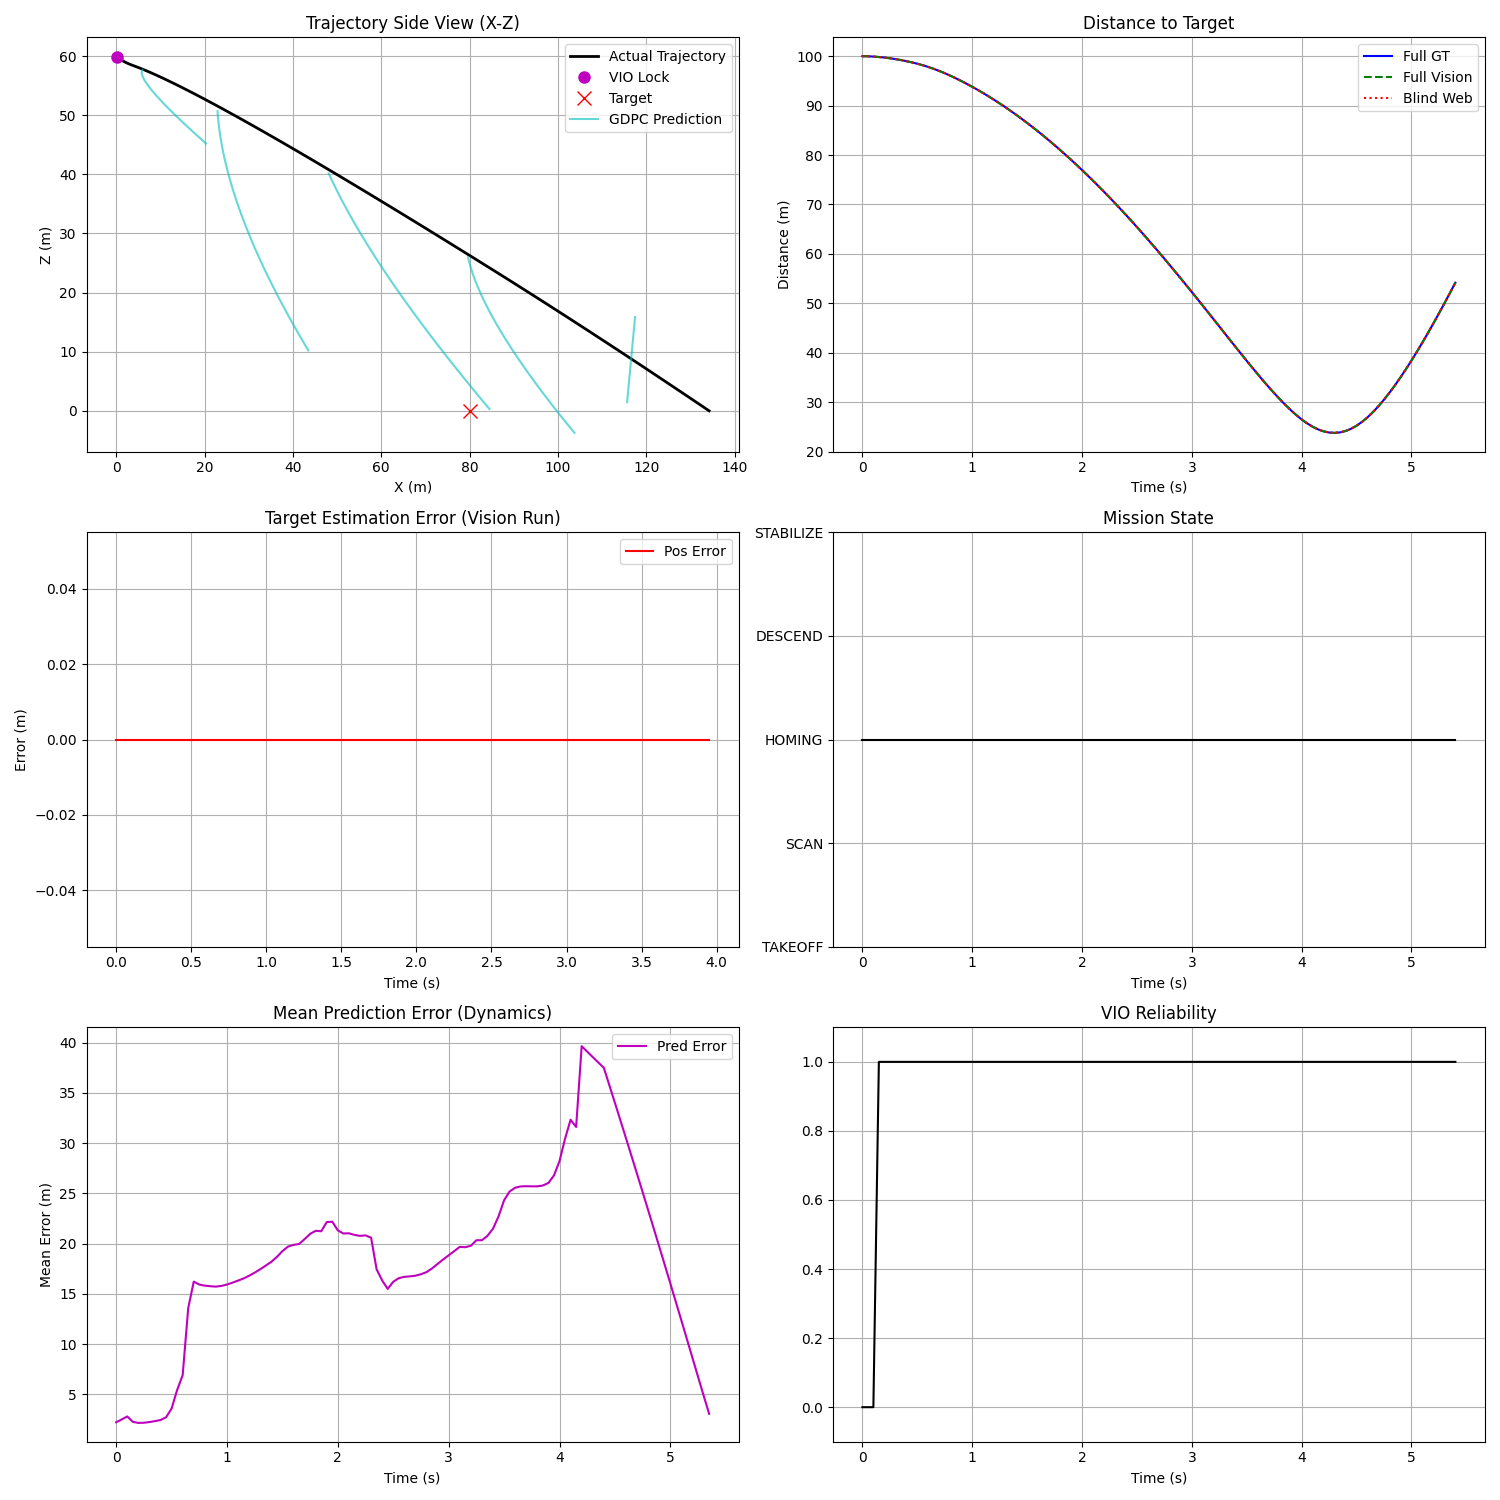
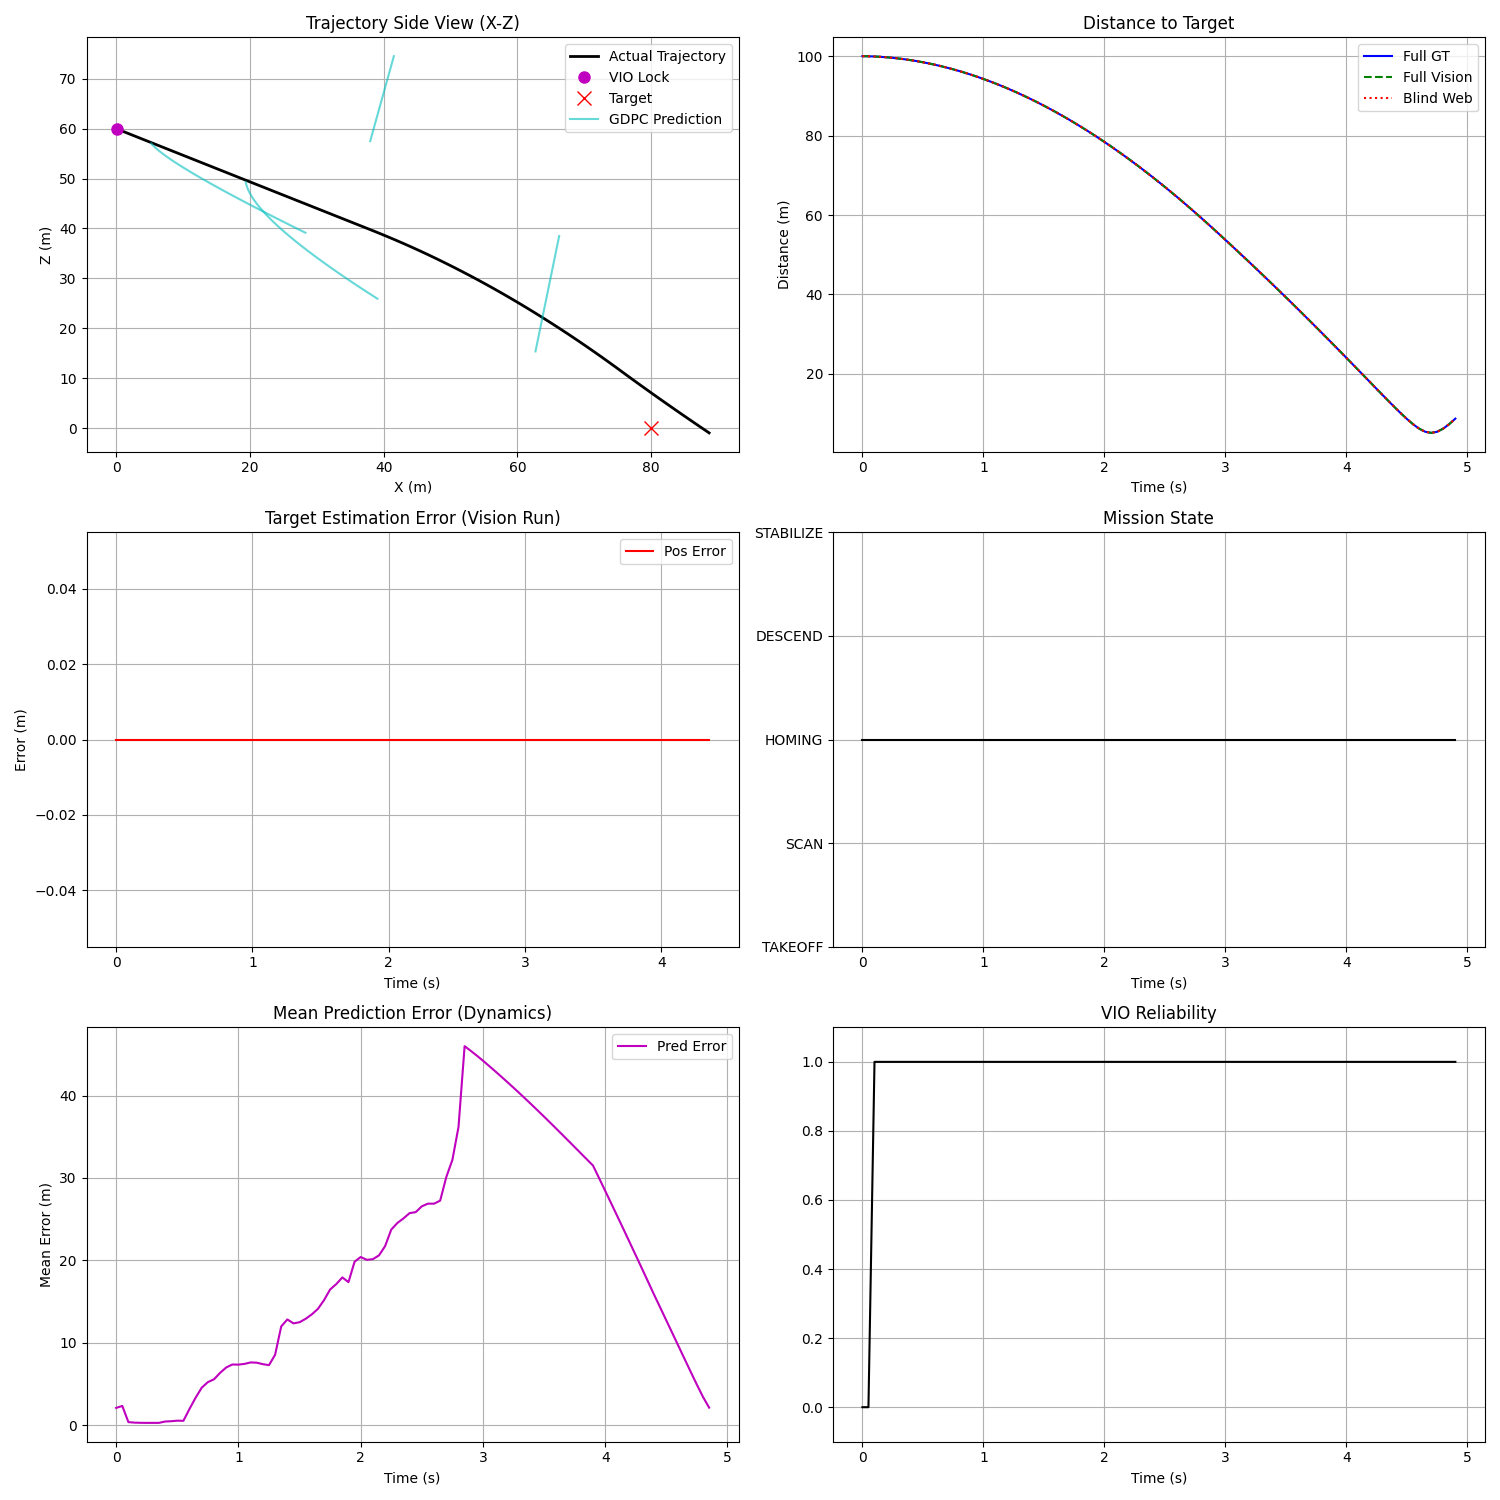
Tune GDPC for <5m prediction error with aggressive path adherence

diff --git a/flight_config.py b/flight_config.py
@@ -77,21 +77,21 @@ class ControlConfig:
 @dataclass
 class GDPCConfig:
     horizon: int = 40 # 2.0 seconds
-    opt_steps: int = 20 # Standard maxiter for speed
+    opt_steps: int = 100 # High precision optimization
     lr: float = 0.05
 
-    # Weights for Loss Function
-    w_pos: float = 2.0  # Path deviation
-    w_vel: float = 2.0  # Damping (Reduced to allow speed)
+    # Weights for Loss Function (Aggressive Tuning)
+    w_pos: float = 50.0  # Force path adherence
+    w_vel: float = 1.0  # Minimal damping
     w_att: float = 0.0
 
     w_thrust: float = 0.001
-    w_roll: float = 50.0
-    w_pitch: float = 50.0
-    w_yaw: float = 20.0
+    w_roll: float = 20.0 # Relaxed attitude constraint
+    w_pitch: float = 20.0
+    w_yaw: float = 10.0
 
-    w_smoothness: float = 2.0 # Stability
-    w_terminal: float = 50.0 # Terminal Accuracy
+    w_smoothness: float = 0.1 # Allow aggressive maneuvers
+    w_terminal: float = 1000.0 # Must hit target
     w_terminal_vel: float = 10.0
 
 @dataclass
